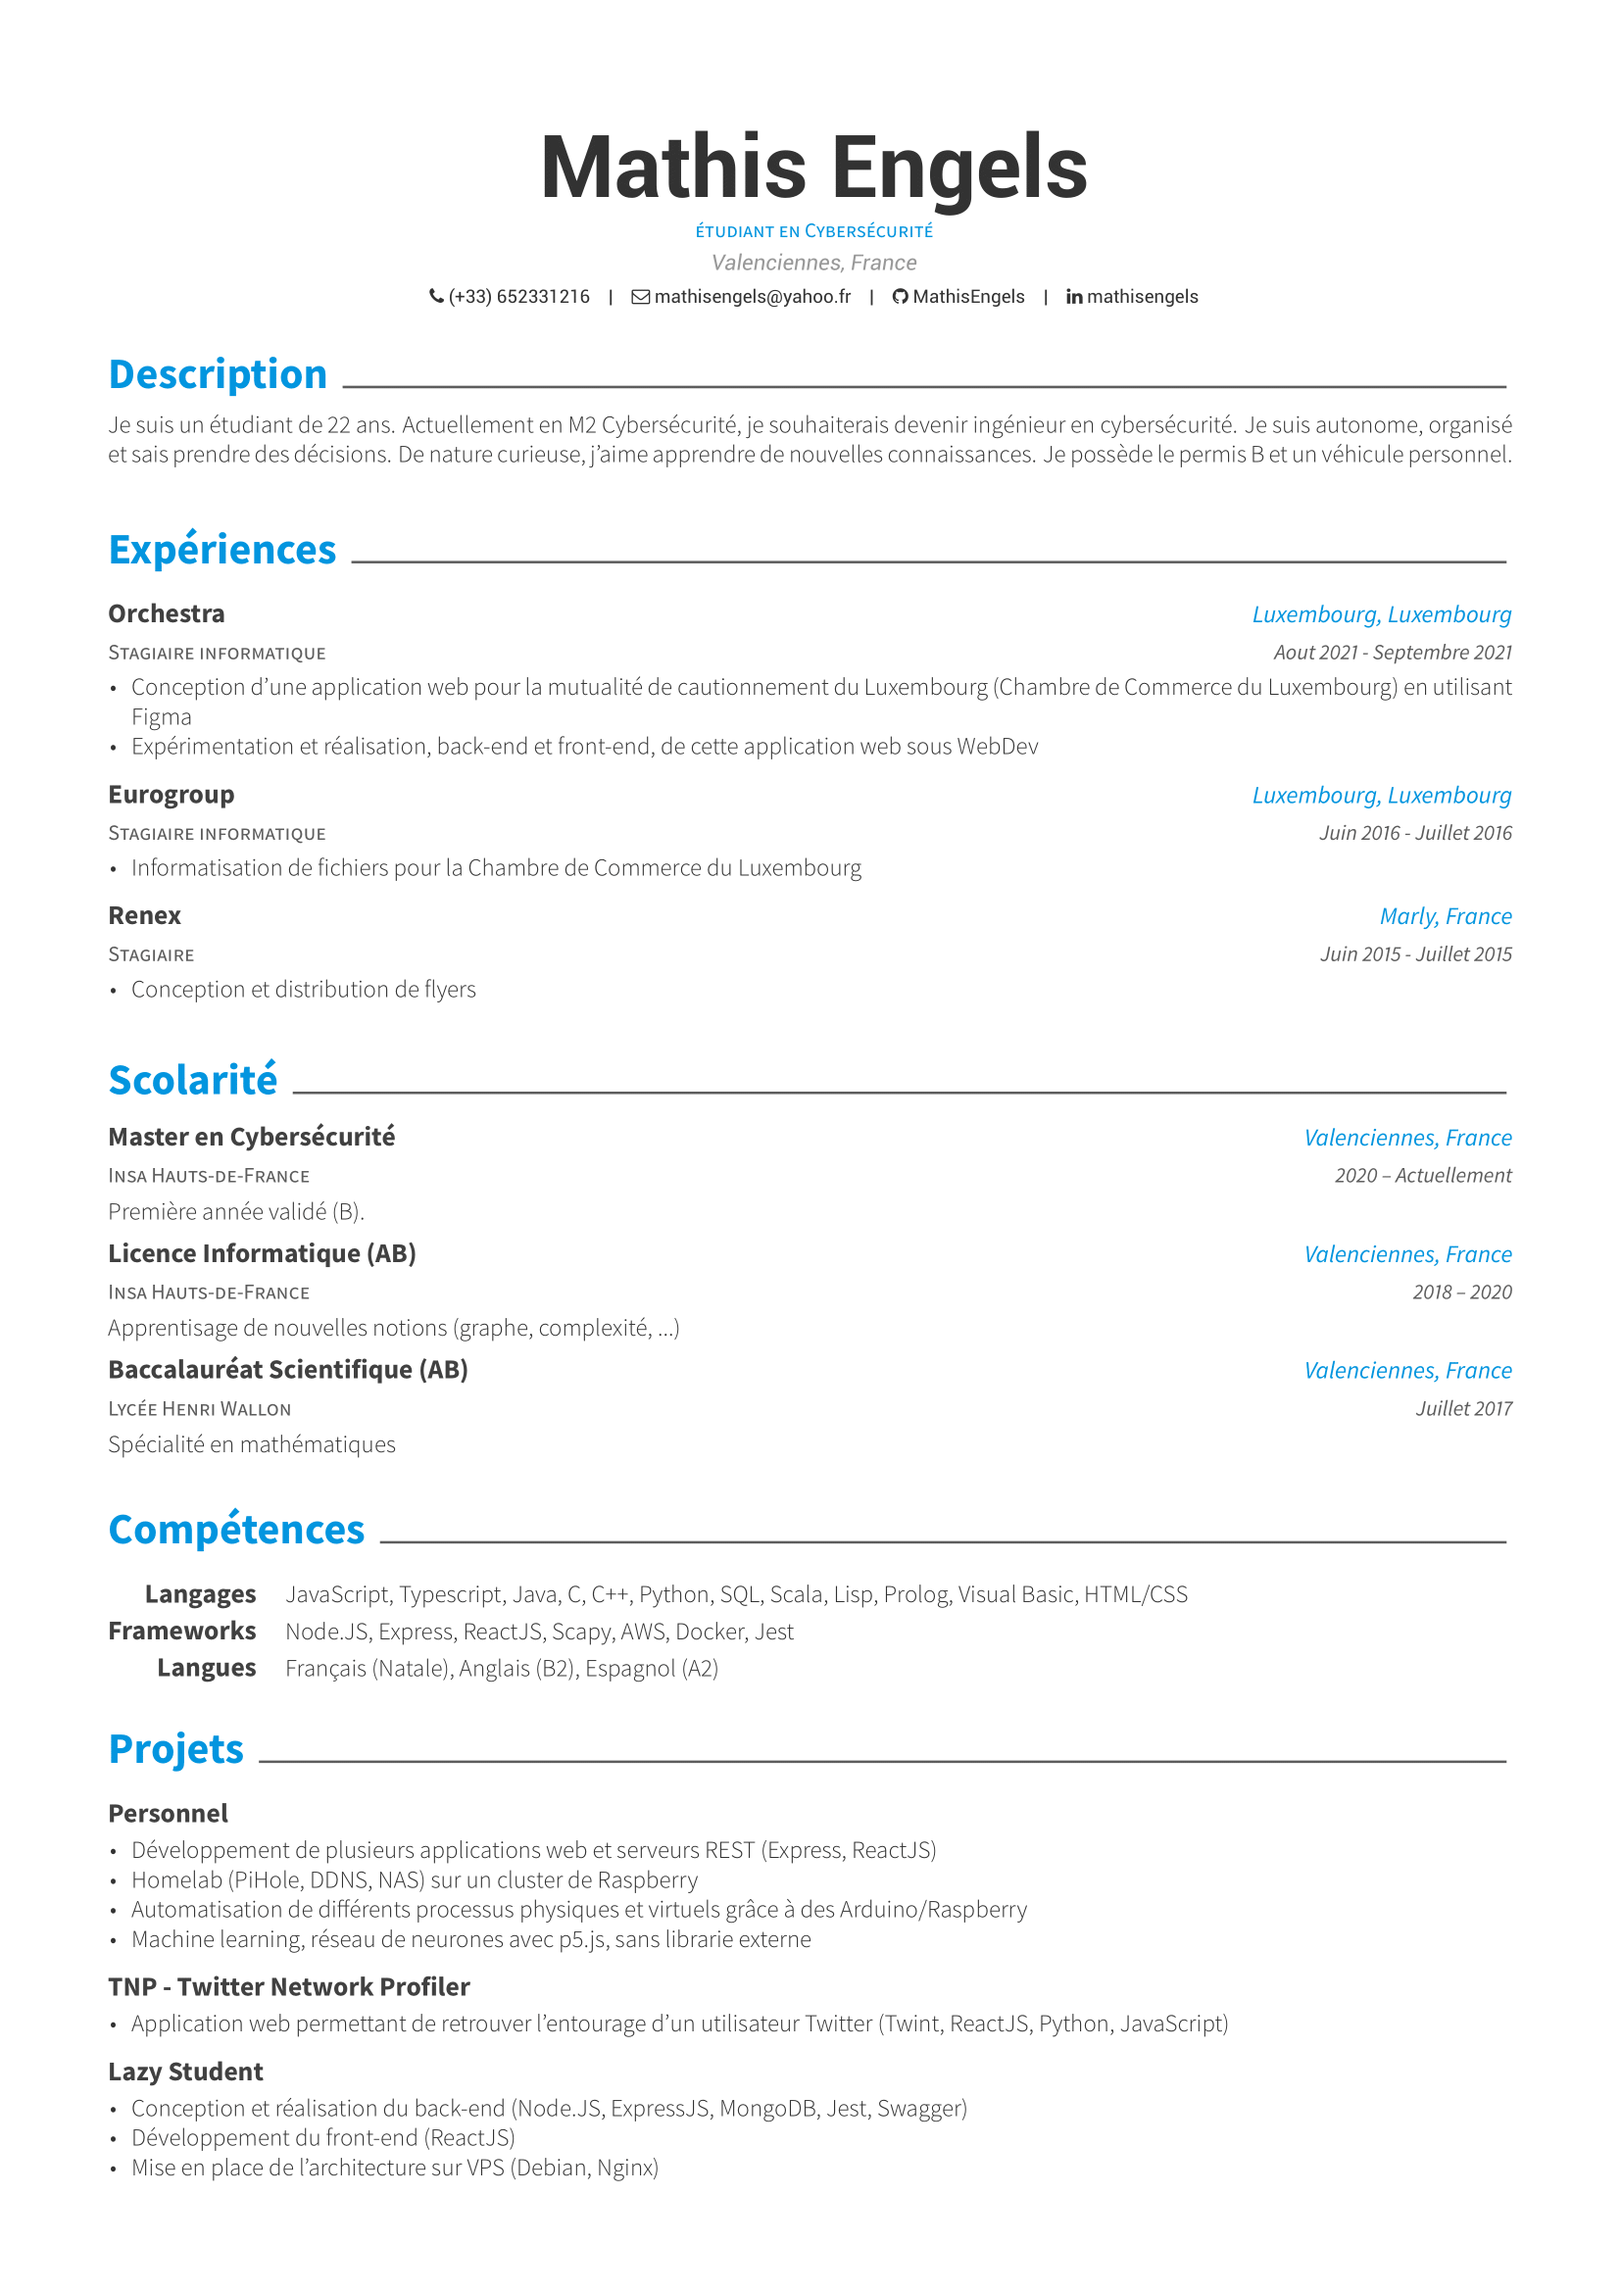
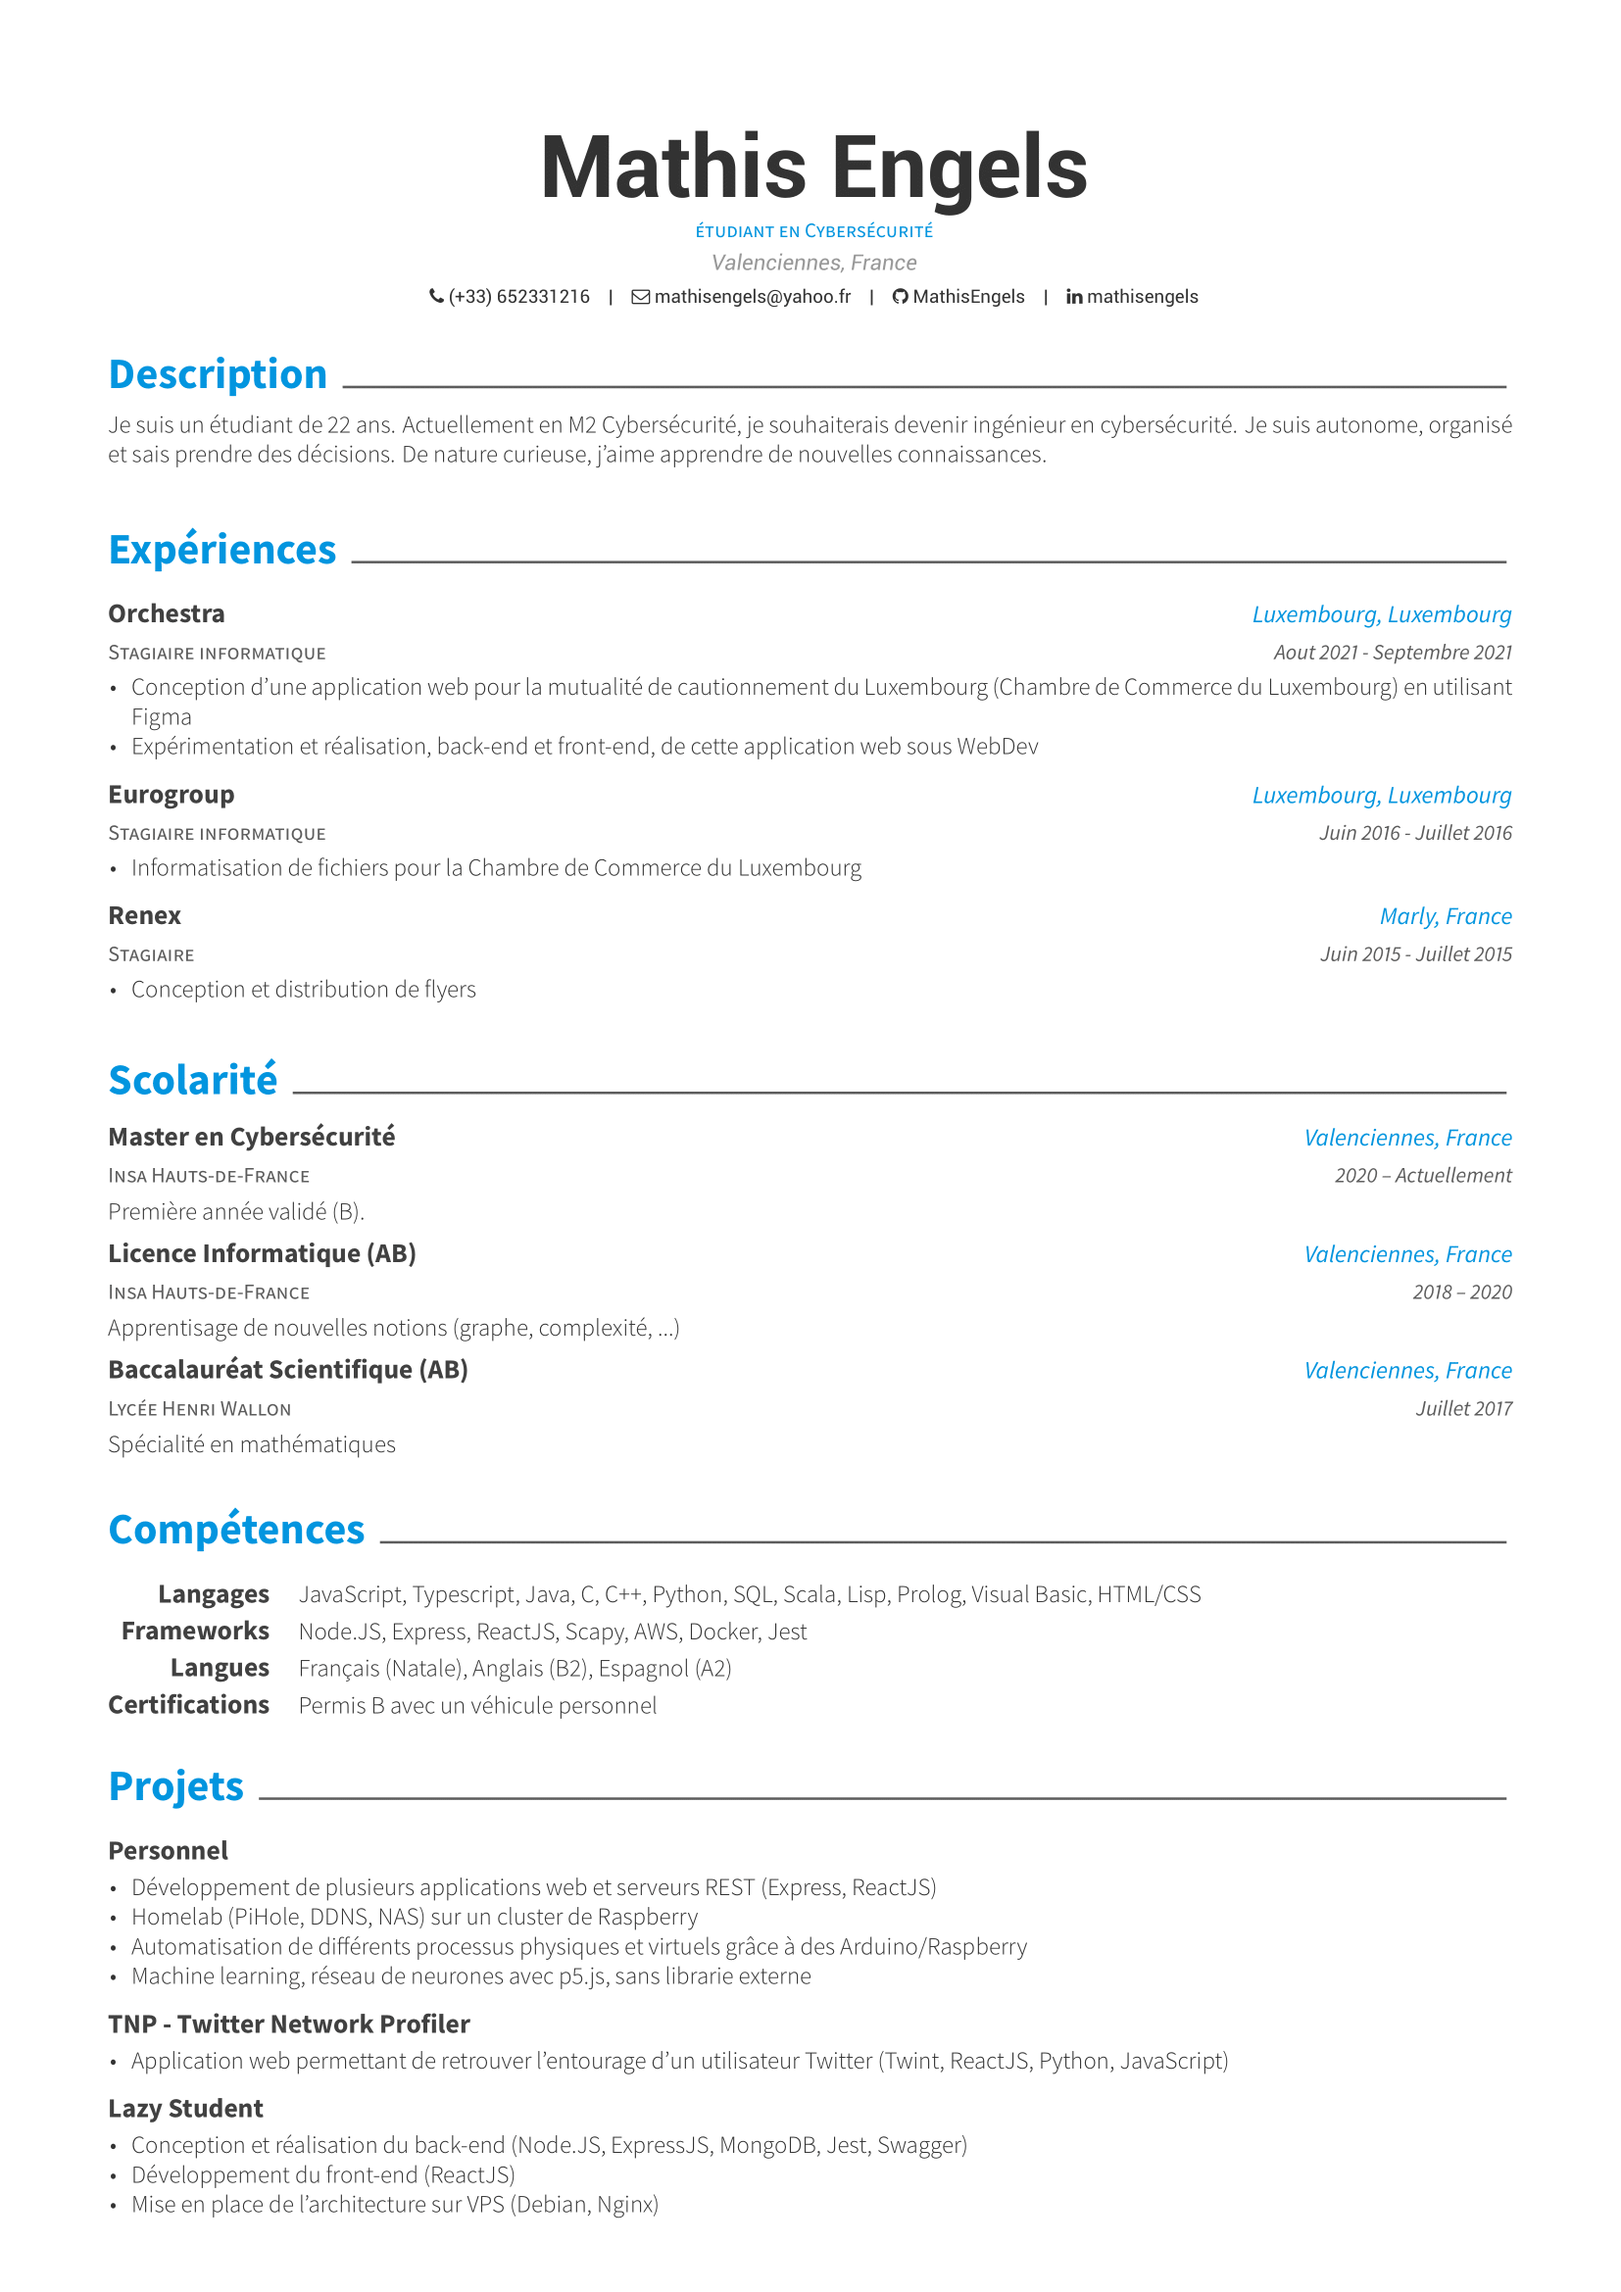
Fix typo and add certificates

diff --git a/resume/en/about-me.tex b/resume/en/about-me.tex
@@ -1,7 +1,6 @@
 \cvsection{About me}
 
 \begin{cvparagraph}
-I am a 22 years old student in the second year of a Master's degree in Cyberdefense and Information security. 
-I would like to become a cybersecurity engineer. I am autonomous, organized, and know how to make decisions.
-Curious by nature, I like to learn new knowledge. I own a full driving license and a personal vehicle.
+I am a 22 year old student in the second year of a Master's degree in Cyberdefense and Information security. 
+I would like to become a cybersecurity engineer. I am autonomous, organized, and know how to make decisions. Curious by nature, I like to learn new knowledge.
 \end{cvparagraph}

diff --git a/resume/fr/about-me.tex b/resume/fr/about-me.tex
@@ -2,5 +2,5 @@
 
 \begin{cvparagraph}
 Je suis un étudiant de 22 ans. Actuellement en M2 Cybersécurité, je souhaiterais devenir ingénieur en
-cybersécurité. Je suis autonome, organisé et sais prendre des décisions. De nature curieuse, j'aime apprendre de nouvelles connaissances. Je possède le permis B et un véhicule personnel.
+cybersécurité. Je suis autonome, organisé et sais prendre des décisions. De nature curieuse, j'aime apprendre de nouvelles connaissances.
 \end{cvparagraph}

diff --git a/resume/en/skills.tex b/resume/en/skills.tex
@@ -12,4 +12,8 @@
   \cvskill
     {Languages} % Type
     {Français (Mother tongue), Anglais (Advanced level), Espagnol (Beginner level)} % Skillset
+    
+  \cvskill
+    {Certificates} % Type
+    {Full driving license with a personal vehicle} % Skillset
 \end{cvskills}

diff --git a/resume/fr/skills.tex b/resume/fr/skills.tex
@@ -12,4 +12,8 @@
   \cvskill
     {Langues} % Type
     {Français (Natale), Anglais (B2), Espagnol (A2)} % Skillset
+    
+  \cvskill
+    {Certifications} % Type
+    {Permis B avec un véhicule personnel} % Skillset
 \end{cvskills}
